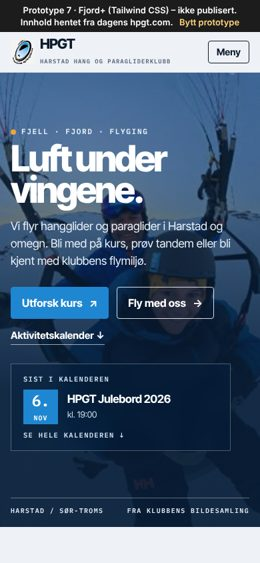
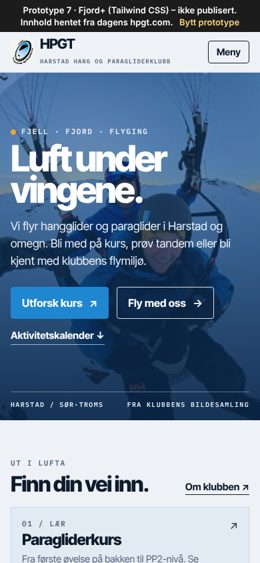
Fjord+: blå toning over toppbildet, mørke kort ved hover, kalender på blått bånd, mindre footer
Claude-Session: https://claude.ai/code/session_01NtTzVBrv64MLKp2Sqdi5ss

diff --git a/src/themes/fjordpluss/style.css b/src/themes/fjordpluss/style.css
@@ -61,13 +61,13 @@ a:focus-visible, button:focus-visible { outline: 3px solid var(--sky); outline-o
 .hero { position: relative; overflow: hidden; color: #fff; isolation: isolate; }
 .hero__img { position: absolute; inset: 0; width: 100%; height: 100%; object-fit: cover; object-position: 50% 60%; transform: scale(1.45); transform-origin: 23% 62%; z-index: -2; }
 .hero::after { content: ""; position: absolute; inset: 0; z-index: -1;
-  background: linear-gradient(90deg, rgba(8,28,52,.92) 0%, rgba(8,28,52,.62) 38%, rgba(8,28,52,.08) 70%), linear-gradient(0deg, rgba(8,28,52,.55), transparent 35%); }
+  background: linear-gradient(90deg, rgba(12,44,82,.86) 0%, rgba(14,52,96,.62) 34%, rgba(16,58,108,.18) 62%, rgba(16,58,108,0) 82%), linear-gradient(180deg, rgba(12,44,82,.28) 0%, rgba(12,44,82,0) 30%, rgba(12,44,82,0) 62%, rgba(10,36,68,.62) 100%), linear-gradient(rgba(30,90,150,.14), rgba(30,90,150,.14)); }
 .hero__in { padding-block: 80px 0; }
 .hero__title { font-size: clamp(3.4rem, 10vw, 6.6rem); letter-spacing: -.06em; line-height: .86; max-width: 7.5ch; margin-bottom: 18px; }
 .hero__lead { max-width: 42ch; margin: 0; font-size: 1.08rem; color: #eaf2fa; }
 .hero__strip { display: flex; justify-content: space-between; gap: 16px; margin-top: 70px; padding-block: 12px 16px; border-top: 1px solid rgba(255,255,255,.35);
   font: 600 .62rem/1.2 var(--mono); letter-spacing: .14em; text-transform: uppercase; color: #dfe9f3; }
-@media (max-width: 600px) { .hero__img { transform: scale(1.9); transform-origin: 56% 64%; } .hero::after { background: linear-gradient(180deg, rgba(8,28,52,.35), rgba(8,28,52,.9) 70%); } }
+@media (max-width: 600px) { .hero__img { transform: scale(1.9); transform-origin: 56% 64%; } .hero::after { background: linear-gradient(180deg, rgba(12,44,82,.35) 0%, rgba(14,52,96,.62) 45%, rgba(10,36,68,.9) 100%); } }
 
 /* Seksjoner */
 .section { padding-block: 56px; }
@@ -175,20 +175,30 @@ code { font: 600 .9em var(--mono); background: var(--tint); padding: 1px 6px; }
 .quote { margin: 0; font-style: italic; color: var(--text); }
 .quote span { font-style: normal; color: var(--muted); }
 
-/* Overlay-kort på toppbildet: neste (eller siste) aktivitet, lenker ned til kalenderen. Frostet glass over bildet. */
 .hero__in { position: relative; }
 .hero__cal { align-self: center; color: #fff; font-weight: 700; font-size: .92rem; text-decoration: none; border-bottom: 1.5px solid rgba(255,255,255,.6); padding: 2px 0; }
 .hero__cal:hover { border-color: #fff; }
-.hero__next { display: grid; gap: 10px; width: min(330px, 100%); margin-top: 28px; padding: 16px 18px; color: #fff; text-decoration: none;
-  background: rgba(8, 28, 52, .42); border: 1px solid rgba(255,255,255,.28); -webkit-backdrop-filter: blur(10px) saturate(1.2); backdrop-filter: blur(10px) saturate(1.2); }
-.hero__next:hover { background: rgba(8, 28, 52, .58); border-color: rgba(255,255,255,.5); }
-.hero__next .eyebrow { margin: 0; }
-.hero__next-row { display: flex; gap: 14px; align-items: center; }
-.hero__next-date { display: grid; place-items: center; min-width: 52px; height: 52px; background: var(--sky); font: 600 .62rem/1 var(--mono); letter-spacing: .1em; text-transform: uppercase; }
-.hero__next-date b { font: 800 1.45rem/1 var(--display); letter-spacing: -.03em; }
-.hero__next-t { display: block; font-size: 1.05rem; letter-spacing: -.02em; line-height: 1.2; }
-.hero__next small { color: #cfe0ef; }
-.hero__next-link { font: 600 .66rem/1 var(--mono); letter-spacing: .12em; text-transform: uppercase; color: #cfe0ef; }
-@media (min-width: 900px) { .hero__next { position: absolute; right: 0; bottom: 74px; margin: 0; } }
+
+/* Kortene i «Finn din vei inn» blir mørke når pekeren er over dem */
+.path { transition: background-color .2s, border-color .2s, color .2s; }
+.path:hover, .path:focus-visible { background: var(--navy); border-color: var(--navy); color: #fff; }
+.path:hover .path__text, .path:focus-visible .path__text { color: #cfe0ef; }
+.path:hover .eyebrow, .path:focus-visible .eyebrow { color: #9cc3e6; }
+.path__arrow { transition: transform .2s; }
+.path:hover .path__arrow { transform: translate(3px, -3px); }
+@media (prefers-reduced-motion: reduce) { .path, .path__arrow { transition: none; } }
 /* Kalenderen bruker designets farger */
 .kal { --kal-text: var(--text); --kal-muted: var(--muted); --kal-line: var(--line); --kal-surface: var(--surface); --kal-tint: var(--tint); --kal-accent: var(--sky); --kal-accent-ink: var(--sky-ink); --kal-mono: var(--mono); }
+
+/* Kalenderen på et lyseblått bånd i full bredde (som i Friluft+-utkastet) */
+.band--cal { background: #e3edf7; border-top: 1px solid var(--line); }
+@media (prefers-color-scheme: dark) { .band--cal { background: #0f1e2e; } }
+.kal { --kal-tint-strong: #cfe3f4; }
+@media (prefers-color-scheme: dark) { .kal { --kal-tint-strong: #1d3a58; } }
+.band--cal + * { margin-top: 0; }
+/* Mindre skrift i bunnen */
+.foot { padding-block: 30px 20px; margin-top: 0; font-size: .82rem; }
+.foot__logo { font-size: 1.4rem; }
+.foot h2 { font-size: .78rem; }
+.foot nav a { font-size: .8rem; }
+.foot__end { font-size: .74rem; margin-top: 24px; }

diff --git a/src/components/kalender.css b/src/components/kalender.css
@@ -1,7 +1,7 @@
 /* Aktivitetskalender. Hvert design setter --kal-*-variablene; standardverdiene er Fjord+ sine. */
 .kal { --_text: var(--kal-text, #0e1b2b); --_muted: var(--kal-muted, #56657a); --_line: var(--kal-line, #ccd7e4); --_surface: var(--kal-surface, #fff);
-  --_tint: var(--kal-tint, #e2eaf3); --_accent: var(--kal-accent, #1f86d1); --_accent-ink: var(--kal-accent-ink, #1569a8); --_mono: var(--kal-mono, ui-monospace, monospace);
-  display: grid; gap: 20px; grid-template-columns: minmax(0, 1fr) minmax(0, 1.2fr); align-items: start; color: var(--_text); }
+  --_tint: var(--kal-tint, #e2eaf3); --_accent: var(--kal-accent, #1f86d1); --_accent-ink: var(--kal-accent-ink, #1569a8); --_mono: var(--kal-mono, ui-monospace, monospace); --_tint-strong: var(--kal-tint-strong, #cfe3f4);
+  display: grid; gap: 14px; grid-template-columns: minmax(0, 1fr) minmax(0, 2fr); align-items: stretch; color: var(--_text); }
 .kal:not(:has(.kal-grid:not([hidden]))) { grid-template-columns: minmax(0, 1fr); }
 @media (max-width: 760px) { .kal { grid-template-columns: minmax(0, 1fr); } }
 .kal-grid { background: var(--_surface); border: 1px solid var(--_line); padding: 16px; }
@@ -14,14 +14,14 @@
 .kal-days { width: 100%; border-collapse: collapse; table-layout: fixed; font-variant-numeric: tabular-nums; }
 .kal-days th { font: 600 .66rem/1 var(--_mono); letter-spacing: .1em; text-transform: uppercase; color: var(--_muted); padding: 6px 0; text-align: center; }
 .kal-days td { text-align: center; padding: 2px; }
-.kal-day { display: grid; place-items: center; width: 34px; height: 34px; margin: auto; border-radius: 50%; font-size: .9rem; color: var(--_text); position: relative; }
-.kal-day--on { background: var(--_accent); color: #fff; font-weight: 700; }
-.kal-day--today { box-shadow: inset 0 0 0 2px var(--_text); }
-.kal-day--on.kal-day--today { box-shadow: inset 0 0 0 2px var(--_surface), 0 0 0 2px var(--_text); }
+.kal-day { display: grid; place-items: center; width: 34px; height: 30px; margin: auto; border-radius: 4px; font-size: .88rem; color: var(--_text); position: relative; }
+.kal-day--on { background: var(--_tint-strong, #cfe3f4); color: var(--_accent-ink); font-weight: 800; }
+.kal-day--today { box-shadow: inset 0 0 0 1.5px var(--_text); font-weight: 800; }
+
 .kal-legend { margin: 10px 0 0; font-size: .8rem; color: var(--_muted); display: flex; align-items: center; gap: 6px; }
-.kal-legend span { width: 12px; height: 12px; border-radius: 50%; background: var(--_accent); display: inline-block; }
-.kal-agenda { display: grid; gap: 10px; align-content: start; min-width: 0; }
-.kal-summary { background: var(--_tint); border: 1px solid var(--_line); padding: 12px 14px; }
+.kal-legend span { width: 12px; height: 12px; border-radius: 3px; background: var(--_tint-strong, #cfe3f4); border: 1px solid var(--_accent); display: inline-block; }
+.kal-agenda { display: grid; gap: 10px; align-content: start; min-width: 0; background: var(--_surface); border: 1px solid var(--_line); padding: 16px 18px; min-height: 100%; }
+.kal-summary { background: var(--_tint); border-left: 3px solid var(--_accent-ink); padding: 10px 14px; }
 .kal-summary p { margin: 2px 0 0; }
 .kal-summary a { color: var(--_accent-ink); font-weight: 700; }
 .kal-eyebrow { font: 600 .66rem/1.2 var(--_mono); letter-spacing: .12em; text-transform: uppercase; color: var(--_muted); }
@@ -33,7 +33,7 @@
 .kal-list a { grid-column: 1; font-weight: 700; color: var(--_text); text-decoration: none; }
 .kal-list a:hover { color: var(--_accent-ink); text-decoration: underline; }
 .kal-list small { grid-column: 1; color: var(--_muted); font-size: .85rem; }
-.kal-past { grid-column: 2; grid-row: 1 / span 2; align-self: center; font: 600 .6rem/1 var(--_mono); letter-spacing: .1em; text-transform: uppercase; color: var(--_muted); border: 1px solid var(--_line); padding: 4px 6px; }
+.kal-past { grid-column: 2; grid-row: 1 / span 2; align-self: start; font-size: .72rem; color: var(--_muted); background: var(--_tint); border-radius: 999px; padding: 3px 9px; }
 .kal-empty { margin: 4px 0 0; color: var(--_muted); }
 .kal-jump { justify-self: start; }
-.kal-fb { font-size: .88rem; font-weight: 700; color: var(--_accent-ink); }
+.kal-fb { margin-top: auto; align-self: end; font-size: .88rem; font-weight: 700; color: var(--_accent-ink); }

diff --git a/src/themes/fjordpluss-bs/style.css b/src/themes/fjordpluss-bs/style.css
@@ -31,8 +31,8 @@ body { -webkit-font-smoothing: antialiased; }
 @media (min-width: 768px) { .navbar-collapse { display: flex !important; } }
 .hero { position: relative; overflow: hidden; isolation: isolate; }
 .hero > img { position: absolute; inset: 0; width: 100%; height: 100%; object-fit: cover; object-position: 50% 60%; transform: scale(1.45); transform-origin: 23% 62%; z-index: -2; }
-.hero::after { content: ""; position: absolute; inset: 0; z-index: -1; background: linear-gradient(90deg, rgba(8,28,52,.92) 0%, rgba(8,28,52,.62) 38%, rgba(8,28,52,.08) 70%), linear-gradient(0deg, rgba(8,28,52,.55), transparent 35%); }
-@media (max-width: 600px) { .hero > img { transform: scale(1.9); transform-origin: 56% 64%; } .hero::after { background: linear-gradient(180deg, rgba(8,28,52,.35), rgba(8,28,52,.9) 70%); } }
+.hero::after { content: ""; position: absolute; inset: 0; z-index: -1; background: linear-gradient(90deg, rgba(12,44,82,.86) 0%, rgba(14,52,96,.62) 34%, rgba(16,58,108,.18) 62%, rgba(16,58,108,0) 82%), linear-gradient(180deg, rgba(12,44,82,.28) 0%, rgba(12,44,82,0) 30%, rgba(12,44,82,0) 62%, rgba(10,36,68,.62) 100%), linear-gradient(rgba(30,90,150,.14), rgba(30,90,150,.14)); }
+@media (max-width: 600px) { .hero > img { transform: scale(1.9); transform-origin: 56% 64%; } .hero::after { background: linear-gradient(180deg, rgba(12,44,82,.35) 0%, rgba(14,52,96,.62) 45%, rgba(10,36,68,.9) 100%); } }
 .hero .eyebrow, .hero-strip { color: #e7f0f8; }
 .hero-strip { border-top: 1px solid rgba(255,255,255,.35); font-family: var(--bs-font-monospace); font-size: .62rem; font-weight: 600; letter-spacing: .14em; text-transform: uppercase; }
 .dot { display: inline-block; width: 8px; height: 8px; border-radius: 50%; background: var(--sun); margin-right: 8px; }
@@ -78,4 +78,20 @@ body { -webkit-font-smoothing: antialiased; }
 .navbar-toggler { color: var(--bs-body-color); border: 1.5px solid currentColor; border-radius: 4px; font-weight: 700; font-size: .9rem; padding: 6px 12px; }
 .navbar-toggler:focus { box-shadow: 0 0 0 3px rgba(31,134,209,.4); }
 .kal { --kal-text: var(--bs-body-color); --kal-muted: var(--bs-secondary-color); --kal-line: var(--bs-border-color); --kal-surface: var(--bs-card-bg, #fff); --kal-tint: var(--tint); --kal-accent: #1f86d1; --kal-accent-ink: var(--sky-ink); --kal-mono: var(--bs-font-monospace); }
-.hn { --kal-mono: var(--bs-font-monospace); }
+
+.hero-cal { align-self: center; color: #fff; font-weight: 700; font-size: .92rem; text-decoration: none; border-bottom: 1.5px solid rgba(255,255,255,.6); padding: 2px 0; }
+.hero-cal:hover { color: #fff; border-color: #fff; }
+.card-path { transition: background-color .2s, border-color .2s; }
+.card-path:hover, .card-path:focus-within { background: var(--navy); border-color: var(--navy); }
+.card-path:hover .card-title, .card-path:focus-within .card-title { color: #fff; }
+.card-path:hover .card-text, .card-path:focus-within .card-text { color: #cfe0ef !important; }
+.card-path:hover .eyebrow, .card-path:focus-within .eyebrow { color: #9cc3e6; }
+.card-path:hover [aria-hidden="true"] { color: #fff; transform: translate(3px, -3px); }
+.card-path [aria-hidden="true"] { transition: transform .2s; }
+@media (prefers-reduced-motion: reduce) { .card-path, .card-path [aria-hidden="true"] { transition: none; } }
+.cal-band { background: #e3edf7; }
+@media (prefers-color-scheme: dark) { .cal-band { background: #0f1e2e; } .kal { --kal-tint-strong: #1d3a58; } }
+.site-foot { font-size: .82rem; }
+.site-foot h2 { font-size: .78rem !important; }
+.site-foot .small, .site-foot small { font-size: .8rem; }
+.site-foot .border-top.small { font-size: .74rem; }

diff --git a/src/themes/fjordpluss-tw/style.css b/src/themes/fjordpluss-tw/style.css
@@ -51,4 +51,9 @@
 .hero-img { transform: scale(1.45); transform-origin: 23% 62%; }
 @media (max-width: 600px) { .hero-img { transform: scale(1.9); transform-origin: 56% 64%; } }
 .kal { --kal-text: var(--color-ink); --kal-muted: var(--color-muted); --kal-line: var(--color-line); --kal-surface: var(--color-surface); --kal-tint: var(--color-tint); --kal-accent: var(--color-sky); --kal-accent-ink: var(--color-sky-ink); --kal-mono: var(--font-mono); }
-.hn { --kal-accent: var(--color-sky); --kal-mono: var(--font-mono); }
+.hero-scrim { background: linear-gradient(90deg, rgba(12,44,82,.86) 0%, rgba(14,52,96,.62) 34%, rgba(16,58,108,.18) 62%, rgba(16,58,108,0) 82%), linear-gradient(180deg, rgba(12,44,82,.28) 0%, rgba(12,44,82,0) 30%, rgba(12,44,82,0) 62%, rgba(10,36,68,.62) 100%), linear-gradient(rgba(30,90,150,.14), rgba(30,90,150,.14)); }
+@media (max-width: 640px) { .hero-scrim { background: linear-gradient(180deg, rgba(12,44,82,.35) 0%, rgba(14,52,96,.62) 45%, rgba(10,36,68,.9) 100%); } }
+.hero-cal { align-self: center; color: #fff; font-weight: 700; font-size: .92rem; text-decoration: none; border-bottom: 1.5px solid rgba(255,255,255,.6); padding: 2px 0; }
+.hero-cal:hover { border-color: #fff; }
+.cal-band { background: #e3edf7; }
+@media (prefers-color-scheme: dark) { .cal-band { background: #0f1e2e; } .kal { --kal-tint-strong: #1d3a58; } }
